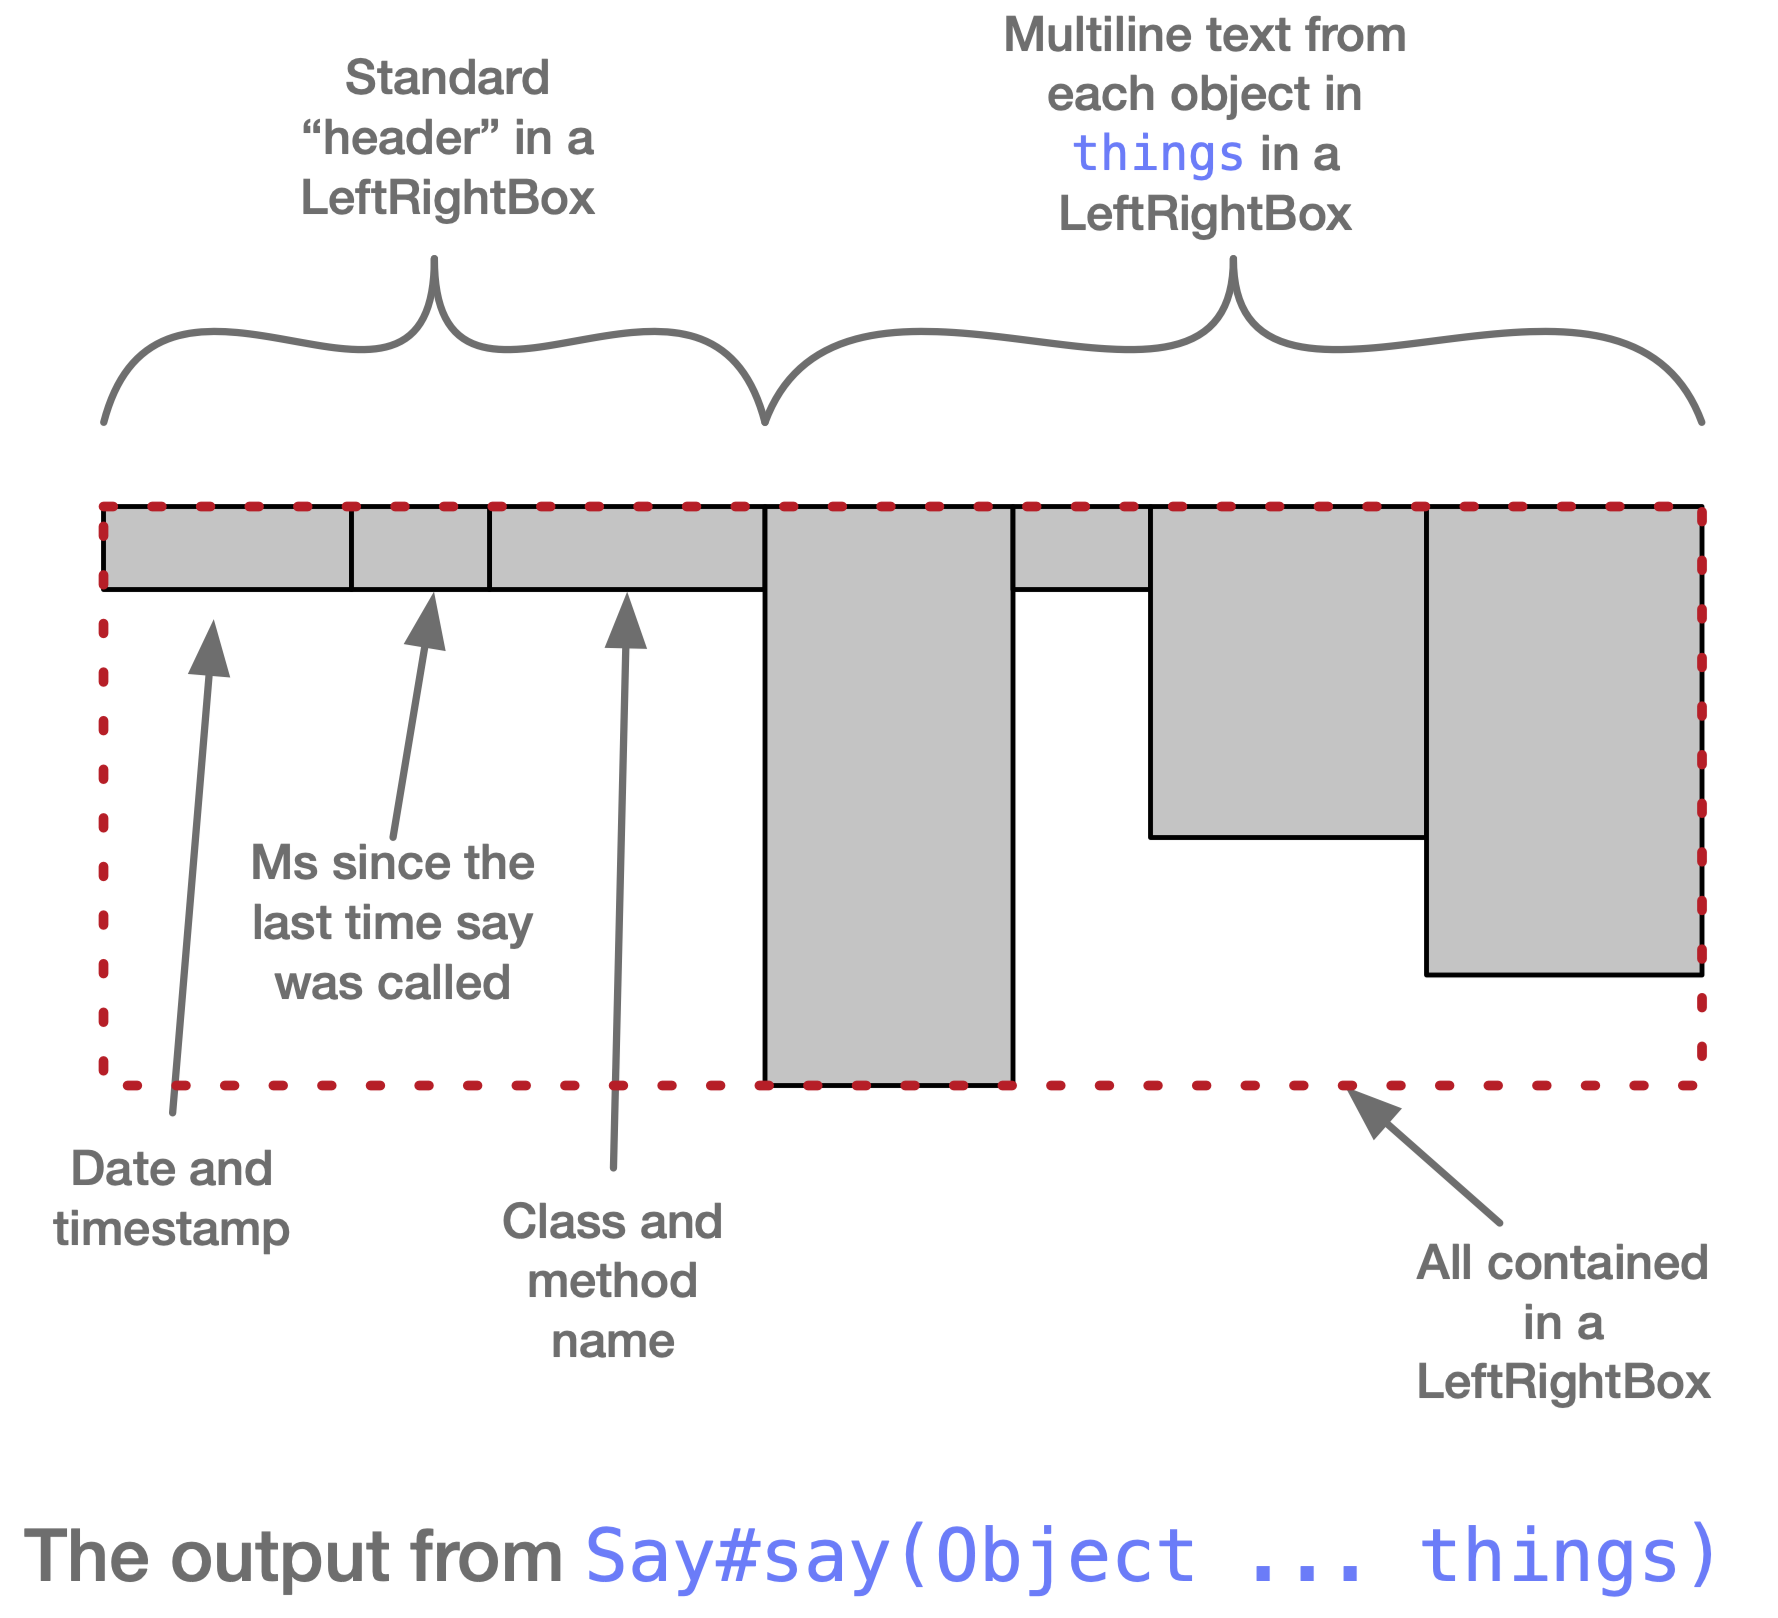
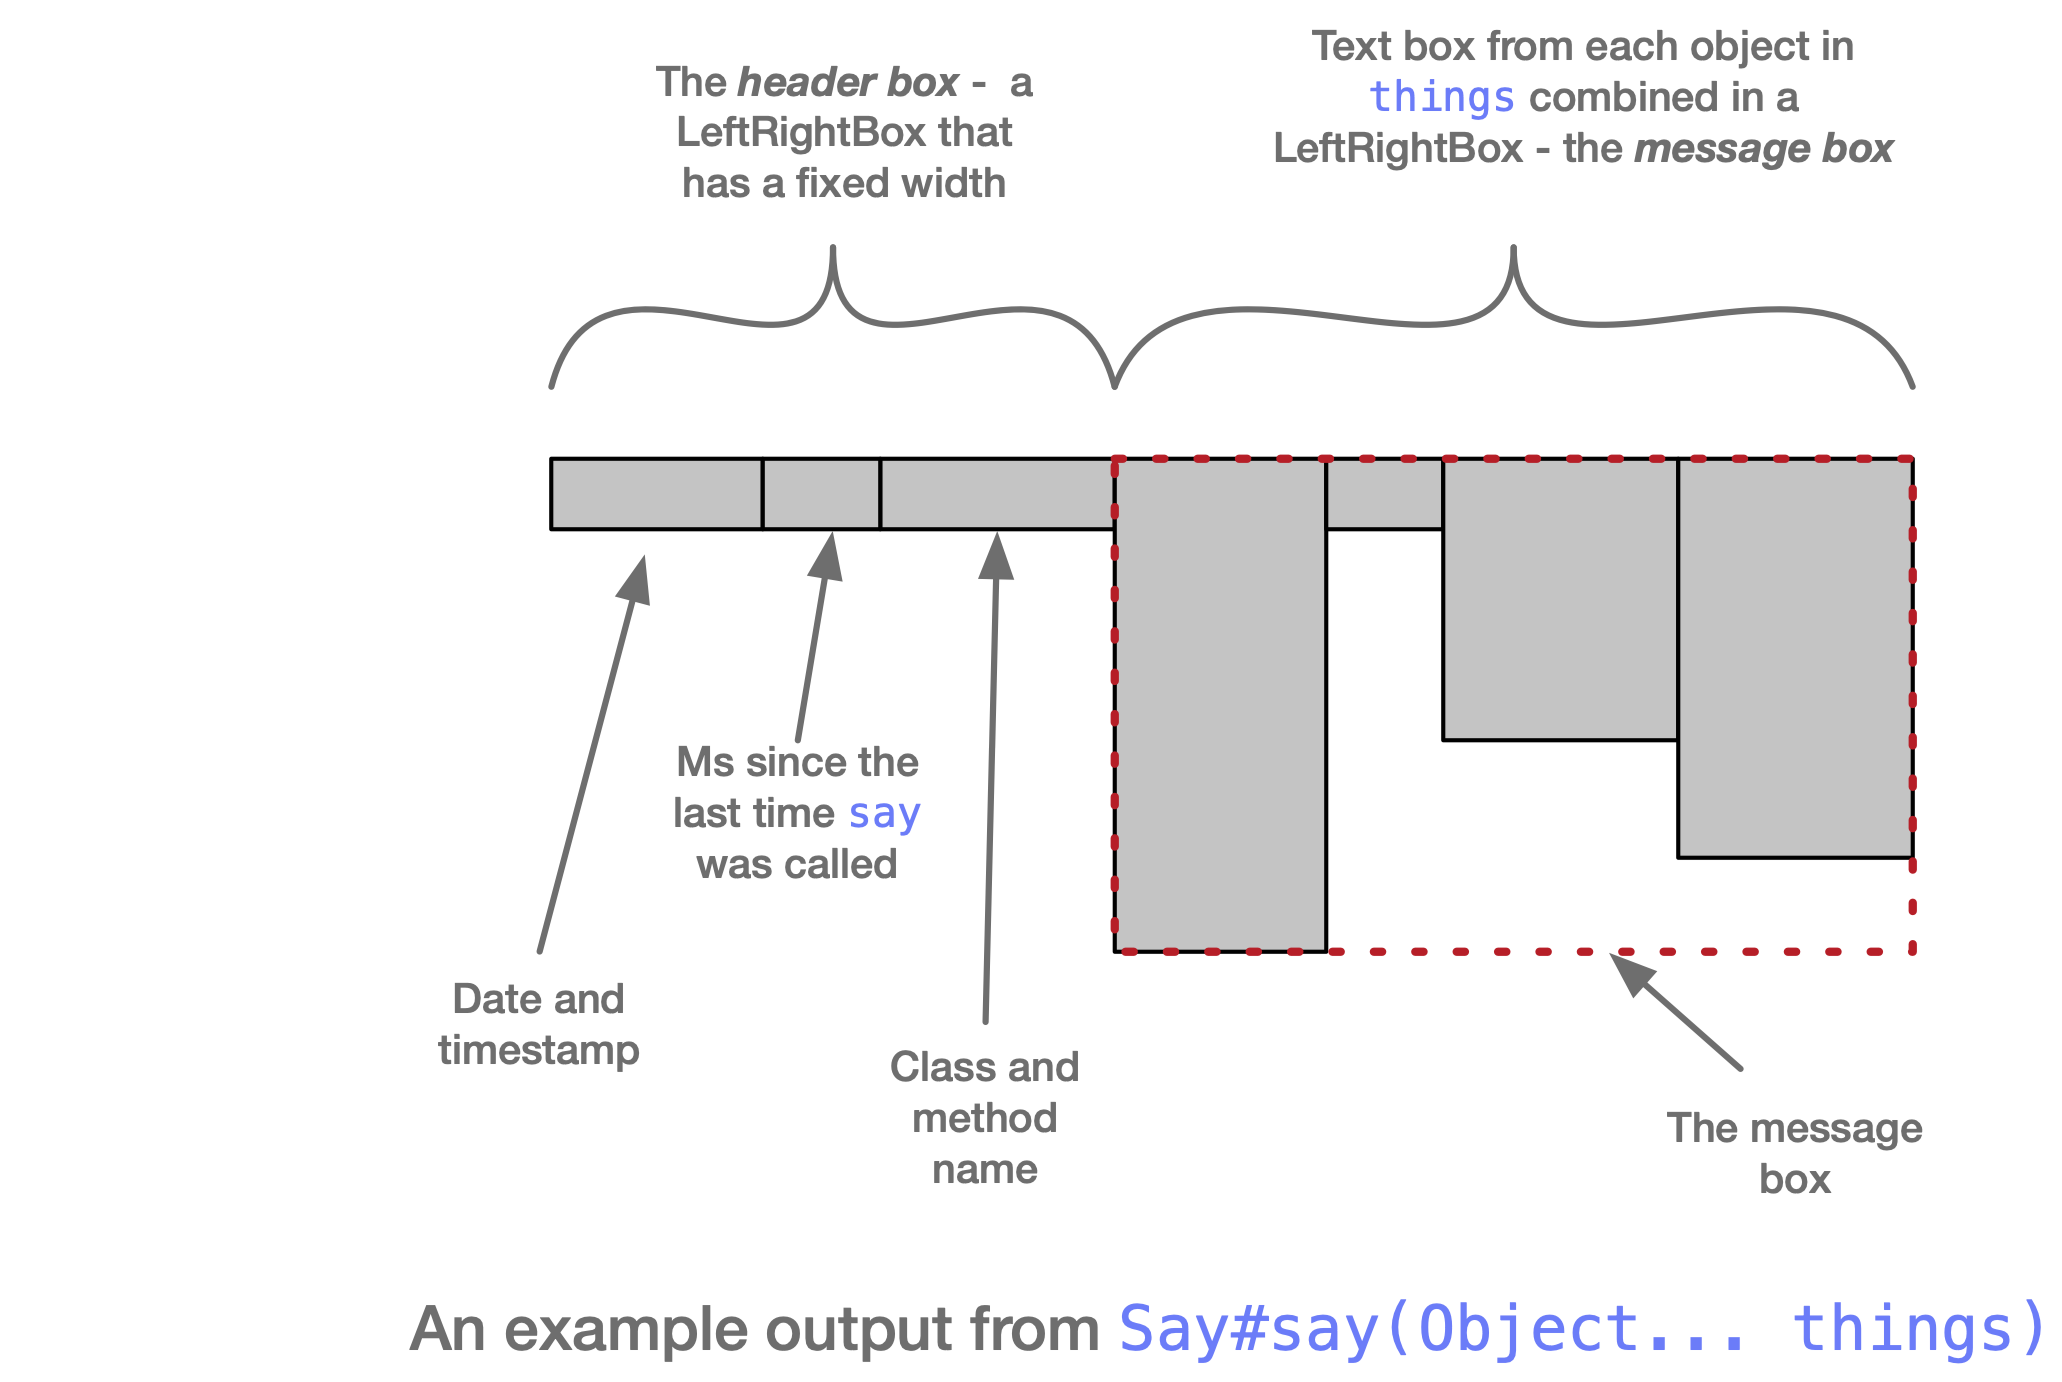
javadocs

diff --git a/javadocs/dev/javafp/util/Say.html b/javadocs/dev/javafp/util/Say.html
@@ -77,29 +77,42 @@ loadScripts(document, 'script');</script>
 <hr>
 <div class="type-signature"><span class="modifiers">public class </span><span class="element-name type-name-label">Say</span>
 <span class="extends-implements">extends <a href="https://docs.oracle.com/en/java/javase/17/docs/api/java.base/java/lang/Object.html" title="class or interface in java.lang" class="external-link">Object</a></span></div>
-<div class="block">A class to allow an easy way to display debugging information.
+<div class="block"><p> A class to allow a convenient way to display debugging information that automatically includes
+ timestamp information and, most usefully, records which method contained the display call.
 
- The easiest way to think about what it does is to consider what it in terms of text boxes.
+ <p> The easiest way to think about what it does is to consider it in terms of text boxes,
+ <a href="../box/AbstractTextBox.html" title="class in dev.javafp.box"><code>AbstractTextBox</code></a>.
 
- The main method, `say` takes an array of objects, uses `toString` on each to get a string - each string is wrapped in a LeafTextBox
- and it then composes the LeafTextBoxes  into a
- LeftRightBox. We call this the message box.
-
- Each of the strings can have many lines of text.
-
- It then generates the label box - a text box that contains three text boxes that are composed into a LeftRightBox. These contain some standard information
-
- 1. The date and timestamp
- 2. The ms since say was last called
- 3. The method name that called it
-
- This box is now composed in a LeftRightBox with the message text box and the final box is converted to a String and output.
-
-
-
-  <p> <img src="../../../dev/doc-files/leaf-text-box.png" width=300/>
-
-  <p> <img src="../../../dev/doc-files/say-output.png" width=300/></div>
+ <p> The main method,
+ <code>say</code>
+  takes an array of objects, uses
+ <a href="TextUtils.html#getBoxFrom(java.lang.Object)"><code>TextUtils.getBoxFrom(Object)</code></a>
+ on each to get a text box
+ and it then composes the text boxes  into a
+ <a href="../box/LeftRightBox.html" title="class in dev.javafp.box"><code>LeftRightBox</code></a>
+ <p> We call this the
+ <code>message box</code>
+ .
+ <p> Each of the boxes can have many lines of text.
+ <p> It then generates a "header" box - a text box that contains three text boxes that are composed into a LeftRightBox.
+ <p> These contain some standard information:
+ <ol>
+ <li>
+ <p> The date and timestamp
+ </li>
+ <li>
+ <p> The ms since
+ <code>say</code>
+  was last called
+ </li>
+ <li>
+ <p> The method name that called it. We use the stack trace of an exception to work this out.
+ </li>
+ </ol>
+ <p> The data and timestamp text box has a fixed width. If the text in the other two boxes is too wide then it will wrap onto another line
+ <p> This means that the header box has a fixed width. It normally is only one line high.
+ <p> This box is now composed in a LeftRightBox with the message text box and this final box is converted to a String and output.
+  <p> <img src="../../../dev/doc-files/say-output.png" width=500/></div>
 </section>
 <section class="summary">
 <ul class="summary-list">
@@ -340,12 +353,6 @@ loadScripts(document, 'script');</script>
 </section>
 </li>
 <li>
-<section class="detail" id="say(java.lang.Object...)">
-<h3>say</h3>
-<div class="member-signature"><span class="modifiers">public static</span>&nbsp;<span class="return-type">void</span>&nbsp;<span class="element-name">say</span><wbr><span class="parameters">(<a href="https://docs.oracle.com/en/java/javase/17/docs/api/java.base/java/lang/Object.html" title="class or interface in java.lang" class="external-link">Object</a>...&nbsp;things)</span></div>
-</section>
-</li>
-<li>
 <section class="detail" id="log(java.lang.String,java.lang.Object...)">
 <h3>log</h3>
 <div class="member-signature"><span class="modifiers">public static</span>&nbsp;<span class="return-type">void</span>&nbsp;<span class="element-name">log</span><wbr><span class="parameters">(<a href="https://docs.oracle.com/en/java/javase/17/docs/api/java.base/java/lang/String.html" title="class or interface in java.lang" class="external-link">String</a>&nbsp;pre,
@@ -395,6 +402,12 @@ loadScripts(document, 'script');</script>
 <section class="detail" id="println(java.lang.Object)">
 <h3>println</h3>
 <div class="member-signature"><span class="modifiers">public static</span>&nbsp;<span class="return-type">void</span>&nbsp;<span class="element-name">println</span><wbr><span class="parameters">(<a href="https://docs.oracle.com/en/java/javase/17/docs/api/java.base/java/lang/Object.html" title="class or interface in java.lang" class="external-link">Object</a>&nbsp;objectToShow)</span></div>
+</section>
+</li>
+<li>
+<section class="detail" id="say(java.lang.Object...)">
+<h3>say</h3>
+<div class="member-signature"><span class="modifiers">public static</span>&nbsp;<span class="return-type">void</span>&nbsp;<span class="element-name">say</span><wbr><span class="parameters">(<a href="https://docs.oracle.com/en/java/javase/17/docs/api/java.base/java/lang/Object.html" title="class or interface in java.lang" class="external-link">Object</a>...&nbsp;things)</span></div>
 </section>
 </li>
 <li>

diff --git a/javadocs/dev/javafp/util/package-summary.html b/javadocs/dev/javafp/util/package-summary.html
@@ -173,7 +173,8 @@ loadScripts(document, 'script');</script>
 <div class="col-last odd-row-color class-summary class-summary-tab2">&nbsp;</div>
 <div class="col-first even-row-color class-summary class-summary-tab2"><a href="Say.html" title="class in dev.javafp.util">Say</a></div>
 <div class="col-last even-row-color class-summary class-summary-tab2">
-<div class="block">A class to allow an easy way to display debugging information.</div>
+<div class="block"> A class to allow a convenient way to display debugging information that automatically includes
+ timestamp information and, most usefully, records which method contained the display call.</div>
 </div>
 <div class="col-first odd-row-color class-summary class-summary-tab2"><a href="ServerTextUtils.html" title="class in dev.javafp.util">ServerTextUtils</a></div>
 <div class="col-last odd-row-color class-summary class-summary-tab2">

diff --git a/javadocs/allclasses-index.html b/javadocs/allclasses-index.html
@@ -611,7 +611,8 @@ loadScripts(document, 'script');</script>
 </div>
 <div class="col-first odd-row-color all-classes-table all-classes-table-tab2"><a href="dev/javafp/util/Say.html" title="class in dev.javafp.util">Say</a></div>
 <div class="col-last odd-row-color all-classes-table all-classes-table-tab2">
-<div class="block">A class to allow an easy way to display debugging information.</div>
+<div class="block"> A class to allow a convenient way to display debugging information that automatically includes
+ timestamp information and, most usefully, records which method contained the display call.</div>
 </div>
 <div class="col-first even-row-color all-classes-table all-classes-table-tab2"><a href="dev/javafp/util/ServerTextUtils.html" title="class in dev.javafp.util">ServerTextUtils</a></div>
 <div class="col-last even-row-color all-classes-table all-classes-table-tab2">

diff --git a/javadocs/index-all.html b/javadocs/index-all.html
@@ -5848,7 +5848,8 @@ loadScripts(document, 'script');</script>
 <dd>&nbsp;</dd>
 <dt><a href="dev/javafp/util/Say.html" class="type-name-link" title="class in dev.javafp.util">Say</a> - Class in <a href="dev/javafp/util/package-summary.html">dev.javafp.util</a></dt>
 <dd>
-<div class="block">A class to allow an easy way to display debugging information.</div>
+<div class="block"> A class to allow a convenient way to display debugging information that automatically includes
+ timestamp information and, most usefully, records which method contained the display call.</div>
 </dd>
 <dt><a href="dev/javafp/util/Say.html#%3Cinit%3E()" class="member-name-link">Say()</a> - Constructor for class dev.javafp.util.<a href="dev/javafp/util/Say.html" title="class in dev.javafp.util">Say</a></dt>
 <dd>&nbsp;</dd>
